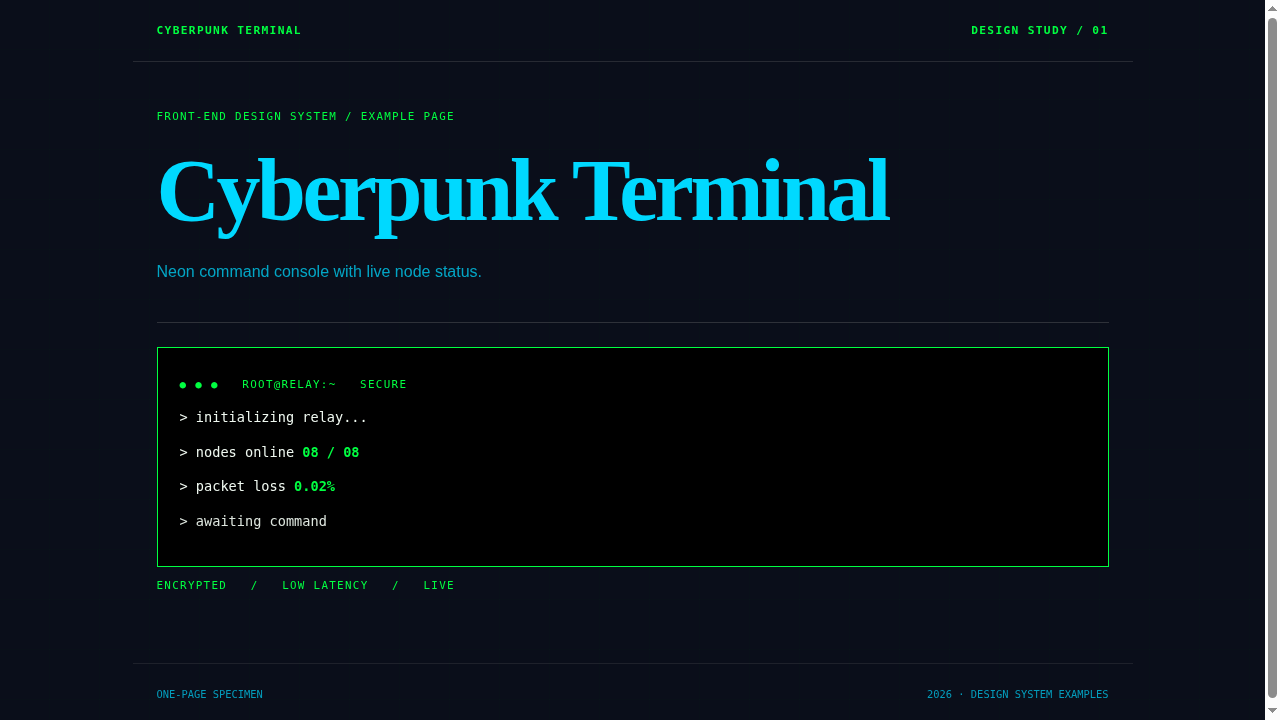
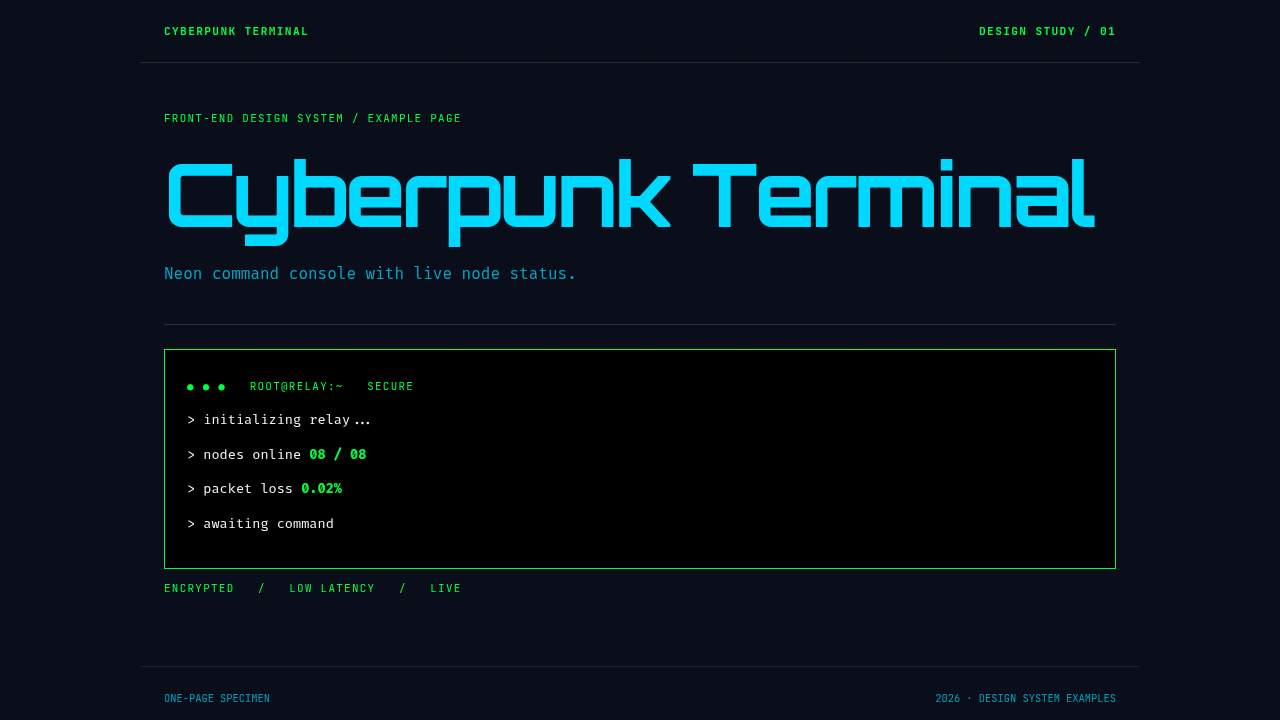
Add screenshots for all 12 design-system examples and enlarge README previews
- Capture missing screenshots (7) and recapture existing 5 with web fonts loaded
- Replace 120px table thumbnails with a two-column full-width preview gallery
- Fix system #2 preview to use skill.html; drop stale Claude-Skills link
- Add gallery to examples README and correct its output path

diff --git a/README.md b/README.md
@@ -6,15 +6,107 @@
 
 ## The five design systems
 
-| # | Skill file | Aesthetic | Font stack | Theme | Example | Preview |
-|---|---|---|---|---|---|---|
-| 1 | `DeepNavy-HighQuality-Terminal-Aesthetics.md` | Deep navy‑slate editorial + teal terminal glow, scanlines, 1.3fr/1fr hero | Fraunces · Geist · JetBrains Mono | dark + light | `index.html` | <a href="examples/design-system-examples/deepnavy-highquality-terminal-aesthetics.html"><img src="examples/design-system-examples/screenshots/deepnavy-highquality-terminal-aesthetics.png" alt="DeepNavy preview" width="120"></a> |
-| 2 | `skill.md` | Editorial craft — warm parchment, rust‑red accent, lifted‑paper cards | Fraunces · Geist · JetBrains Mono | dark + light | `examples/BaseHtml-Revamped-with-DesignSkill/` | <a href="examples/design-system-examples/amber-parchment-journal.html"><img src="examples/design-system-examples/screenshots/amber-parchment-journal.png" alt="Amber Parchement preview" width="120"></a> |
-| 3 | `DeepNavy-Fraunces-Pro.md` | Editorial‑technical dark navy + teal, grid + scanline overlay | Fraunces · Geist · JetBrains Mono | dark + light | (same stack as #1) | <a href="examples/design-system-examples/deepnavy-fraunces-pro.html"><img src="examples/design-system-examples/screenshots/deepnavy-fraunces-pro.png" alt="DeepNavy Pro preview" width="120"></a> |
-| 4 | `Dark-Gold-Editorial-Report.md` | Financial journalism — gold accent, dark masthead, parchment body | DM Serif Display · DM Mono · Space Grotesk | light body + dark masthead | `examples/Dark-Gold-Editorial-Report.html` | <a href="examples/design-system-examples/dark-gold-editorial-report.html"><img src="examples/design-system-examples/screenshots/dark-gold-editorial-report.png" alt="Dark Gold preview" width="120"></a> |
-| 5 | `CyberPunk-Animated-Terminal-v1.md` & `v2` | Cyberpunk terminal — scrolling grid, neon triad, animated scanline borders | Orbitron · Fira Code | dark only | `examples/CyberPunk-Animated-Terminal-v2.html` (v1 `.md` is itself runnable HTML) | <a href="examples/design-system-examples/cyberpunk-animated-terminal-v1.html"><img src="examples/design-system-examples/screenshots/cyberpunk-animated-terminal-v1.png" alt="Cyberpunk preview" width="120"></a> |
+| # | Skill file | Aesthetic | Font stack | Theme | Example |
+|---|---|---|---|---|---|
+| 1 | `DeepNavy-HighQuality-Terminal-Aesthetics.md` | Deep navy‑slate editorial + teal terminal glow, scanlines, 1.3fr/1fr hero | Fraunces · Geist · JetBrains Mono | dark + light | `index.html` |
+| 2 | `skill.md` | Editorial craft — warm parchment, rust‑red accent, lifted‑paper cards | Fraunces · Geist · JetBrains Mono | dark + light | `examples/BaseHtml-Revamped-with-DesignSkill/` |
+| 3 | `DeepNavy-Fraunces-Pro.md` | Editorial‑technical dark navy + teal, grid + scanline overlay | Fraunces · Geist · JetBrains Mono | dark + light | (same stack as #1) |
+| 4 | `Dark-Gold-Editorial-Report.md` | Financial journalism — gold accent, dark masthead, parchment body | DM Serif Display · DM Mono · Space Grotesk | light body + dark masthead | `examples/Dark-Gold-Editorial-Report.html` |
+| 5 | `CyberPunk-Animated-Terminal-v1.md` & `v2` | Cyberpunk terminal — scrolling grid, neon triad, animated scanline borders | Orbitron · Fira Code | dark only | `examples/CyberPunk-Animated-Terminal-v2.html` (v1 `.md` is itself runnable HTML) |
 
-All skill files live in [`frontend-design/`](frontend-design/). Claude-Code-packaged variants sit in [`frontend-design/Claude-Skills/`](frontend-design/Claude-Skills/).
+All skill files live in [`frontend-design/`](frontend-design/). See [Previews](#previews) below for a screenshot of every system.
+
+---
+
+## Previews
+
+One specimen page per design system, generated from its `.md` spec. Click a screenshot to open the HTML source; all pages live in [`examples/design-system-examples/`](examples/design-system-examples/).
+
+### The five core systems
+
+<table>
+  <tr>
+    <td width="50%" valign="top">
+      <strong>#1 · DeepNavy HighQuality Terminal Aesthetics</strong><br>
+      <a href="examples/design-system-examples/deepnavy-highquality-terminal-aesthetics.html"><img src="examples/design-system-examples/screenshots/deepnavy-highquality-terminal-aesthetics.png" alt="DeepNavy HighQuality Terminal Aesthetics preview" width="100%"></a><br>
+      <sub>Spec: <a href="frontend-design/DeepNavy-HighQuality-Terminal-Aesthetics.md"><code>DeepNavy-HighQuality-Terminal-Aesthetics.md</code></a></sub>
+    </td>
+    <td width="50%" valign="top">
+      <strong>#2 · Editorial Craft</strong><br>
+      <a href="examples/design-system-examples/skill.html"><img src="examples/design-system-examples/screenshots/skill.png" alt="Editorial Craft preview" width="100%"></a><br>
+      <sub>Spec: <a href="frontend-design/skill.md"><code>skill.md</code></a></sub>
+    </td>
+  </tr>
+  <tr>
+    <td width="50%" valign="top">
+      <strong>#3 · DeepNavy Fraunces Pro</strong><br>
+      <a href="examples/design-system-examples/deepnavy-fraunces-pro.html"><img src="examples/design-system-examples/screenshots/deepnavy-fraunces-pro.png" alt="DeepNavy Fraunces Pro preview" width="100%"></a><br>
+      <sub>Spec: <a href="frontend-design/DeepNavy-Fraunces-Pro.md"><code>DeepNavy-Fraunces-Pro.md</code></a></sub>
+    </td>
+    <td width="50%" valign="top">
+      <strong>#4 · Dark Gold Editorial Report</strong><br>
+      <a href="examples/design-system-examples/dark-gold-editorial-report.html"><img src="examples/design-system-examples/screenshots/dark-gold-editorial-report.png" alt="Dark Gold Editorial Report preview" width="100%"></a><br>
+      <sub>Spec: <a href="frontend-design/Dark-Gold-Editorial-Report.md"><code>Dark-Gold-Editorial-Report.md</code></a></sub>
+    </td>
+  </tr>
+  <tr>
+    <td width="50%" valign="top">
+      <strong>#5 · CyberPunk Animated Terminal</strong><br>
+      <a href="examples/design-system-examples/cyberpunk-animated-terminal-v1.html"><img src="examples/design-system-examples/screenshots/cyberpunk-animated-terminal-v1.png" alt="CyberPunk Animated Terminal preview" width="100%"></a><br>
+      <sub>Spec: <a href="frontend-design/CyberPunk-Animated-Terminal-v1.md"><code>CyberPunk-Animated-Terminal-v1.md</code></a></sub>
+    </td>
+    <td width="50%" valign="top"></td>
+  </tr>
+</table>
+
+### More design systems
+
+<table>
+  <tr>
+    <td width="50%" valign="top">
+      <strong>Amber Parchment Journal</strong><br>
+      <a href="examples/design-system-examples/amber-parchment-journal.html"><img src="examples/design-system-examples/screenshots/amber-parchment-journal.png" alt="Amber Parchment Journal preview" width="100%"></a><br>
+      <sub>Spec: <a href="frontend-design/New-DesignSystems-Experimental/Amber-Parchment-Journal.md"><code>Amber-Parchment-Journal.md</code></a></sub>
+    </td>
+    <td width="50%" valign="top">
+      <strong>Concrete Brutalist Forge</strong><br>
+      <a href="examples/design-system-examples/concrete-brutalist-forge.html"><img src="examples/design-system-examples/screenshots/concrete-brutalist-forge.png" alt="Concrete Brutalist Forge preview" width="100%"></a><br>
+      <sub>Spec: <a href="frontend-design/New-DesignSystems-Experimental/Concrete-Brutalist-Forge.md"><code>Concrete-Brutalist-Forge.md</code></a></sub>
+    </td>
+  </tr>
+  <tr>
+    <td width="50%" valign="top">
+      <strong>Signal / Void Minimal</strong><br>
+      <a href="examples/design-system-examples/signal-void-minimal.html"><img src="examples/design-system-examples/screenshots/signal-void-minimal.png" alt="Signal Void Minimal preview" width="100%"></a><br>
+      <sub>Spec: <a href="frontend-design/New-DesignSystems-Experimental/Signal-Void-Minimal.md"><code>Signal-Void-Minimal.md</code></a></sub>
+    </td>
+    <td width="50%" valign="top">
+      <strong>Control Room</strong><br>
+      <a href="examples/design-system-examples/control-room-design-system.html"><img src="examples/design-system-examples/screenshots/control-room-design-system.png" alt="Control Room preview" width="100%"></a><br>
+      <sub>Spec: <a href="frontend-design/control-room-design-system.md"><code>control-room-design-system.md</code></a></sub>
+    </td>
+  </tr>
+  <tr>
+    <td width="50%" valign="top">
+      <strong>PaperOS</strong><br>
+      <a href="examples/design-system-examples/paperos-designsystem-skill.html"><img src="examples/design-system-examples/screenshots/paperos-designsystem-skill.png" alt="PaperOS preview" width="100%"></a><br>
+      <sub>Spec: <a href="frontend-design/PaperOS%E2%80%94DesignSystem-SKILL.md"><code>PaperOS—DesignSystem-SKILL.md</code></a></sub>
+    </td>
+    <td width="50%" valign="top">
+      <strong>NVMe → eGPU Guide</strong><br>
+      <a href="examples/design-system-examples/nvme-egpu-design-skill.html"><img src="examples/design-system-examples/screenshots/nvme-egpu-design-skill.png" alt="NVMe eGPU preview" width="100%"></a><br>
+      <sub>Spec: <a href="frontend-design/nvme-egpu-design-SKILL.md"><code>nvme-egpu-design-SKILL.md</code></a></sub>
+    </td>
+  </tr>
+  <tr>
+    <td width="50%" valign="top">
+      <strong>Volga Partners</strong><br>
+      <a href="examples/design-system-examples/volga-partners-frontend-design.html"><img src="examples/design-system-examples/screenshots/volga-partners-frontend-design.png" alt="Volga Partners preview" width="100%"></a><br>
+      <sub>Spec: <a href="frontend-design/volga-partners-frontend-design.md"><code>volga-partners-frontend-design.md</code></a></sub>
+    </td>
+    <td width="50%" valign="top"></td>
+  </tr>
+</table>
 
 ---
 

diff --git a/examples/design-system-examples/README.md b/examples/design-system-examples/README.md
@@ -1,5 +1,72 @@
 # Front-end design system examples
 
+One specimen page per design system. Click a screenshot to open its HTML; screenshots live in [`screenshots/`](screenshots/) (1280×720).
+
+<table>
+  <tr>
+    <td width="50%" valign="top">
+      <strong>DeepNavy HighQuality Terminal Aesthetics</strong><br>
+      <a href="deepnavy-highquality-terminal-aesthetics.html"><img src="screenshots/deepnavy-highquality-terminal-aesthetics.png" alt="DeepNavy HighQuality Terminal Aesthetics preview" width="100%"></a>
+    </td>
+    <td width="50%" valign="top">
+      <strong>Editorial Craft (<code>skill.md</code>)</strong><br>
+      <a href="skill.html"><img src="screenshots/skill.png" alt="Editorial Craft preview" width="100%"></a>
+    </td>
+  </tr>
+  <tr>
+    <td width="50%" valign="top">
+      <strong>DeepNavy Fraunces Pro</strong><br>
+      <a href="deepnavy-fraunces-pro.html"><img src="screenshots/deepnavy-fraunces-pro.png" alt="DeepNavy Fraunces Pro preview" width="100%"></a>
+    </td>
+    <td width="50%" valign="top">
+      <strong>Dark Gold Editorial Report</strong><br>
+      <a href="dark-gold-editorial-report.html"><img src="screenshots/dark-gold-editorial-report.png" alt="Dark Gold Editorial Report preview" width="100%"></a>
+    </td>
+  </tr>
+  <tr>
+    <td width="50%" valign="top">
+      <strong>CyberPunk Animated Terminal</strong><br>
+      <a href="cyberpunk-animated-terminal-v1.html"><img src="screenshots/cyberpunk-animated-terminal-v1.png" alt="CyberPunk Animated Terminal preview" width="100%"></a>
+    </td>
+    <td width="50%" valign="top">
+      <strong>Amber Parchment Journal</strong><br>
+      <a href="amber-parchment-journal.html"><img src="screenshots/amber-parchment-journal.png" alt="Amber Parchment Journal preview" width="100%"></a>
+    </td>
+  </tr>
+  <tr>
+    <td width="50%" valign="top">
+      <strong>Concrete Brutalist Forge</strong><br>
+      <a href="concrete-brutalist-forge.html"><img src="screenshots/concrete-brutalist-forge.png" alt="Concrete Brutalist Forge preview" width="100%"></a>
+    </td>
+    <td width="50%" valign="top">
+      <strong>Signal / Void Minimal</strong><br>
+      <a href="signal-void-minimal.html"><img src="screenshots/signal-void-minimal.png" alt="Signal Void Minimal preview" width="100%"></a>
+    </td>
+  </tr>
+  <tr>
+    <td width="50%" valign="top">
+      <strong>Control Room</strong><br>
+      <a href="control-room-design-system.html"><img src="screenshots/control-room-design-system.png" alt="Control Room preview" width="100%"></a>
+    </td>
+    <td width="50%" valign="top">
+      <strong>PaperOS</strong><br>
+      <a href="paperos-designsystem-skill.html"><img src="screenshots/paperos-designsystem-skill.png" alt="PaperOS preview" width="100%"></a>
+    </td>
+  </tr>
+  <tr>
+    <td width="50%" valign="top">
+      <strong>NVMe → eGPU Guide</strong><br>
+      <a href="nvme-egpu-design-skill.html"><img src="screenshots/nvme-egpu-design-skill.png" alt="NVMe eGPU preview" width="100%"></a>
+    </td>
+    <td width="50%" valign="top">
+      <strong>Volga Partners</strong><br>
+      <a href="volga-partners-frontend-design.html"><img src="screenshots/volga-partners-frontend-design.png" alt="Volga Partners preview" width="100%"></a>
+    </td>
+  </tr>
+</table>
+
+---
+
 Examined 14 unique Markdown files across the two requested directories. Source Markdown files were not changed.
 
 ## Examined Markdown files
@@ -53,4 +120,4 @@ Examined 14 unique Markdown files across the two requested directories. Source M
 - `skill.html`
 - `volga-partners-frontend-design.html`
 
-Output directory: `/home/superdfk/Documents/smart-working/FrontendDesign-Anything-Well/frontend-design/design-system-examples`
+Output directory: [`examples/design-system-examples/`](./)
